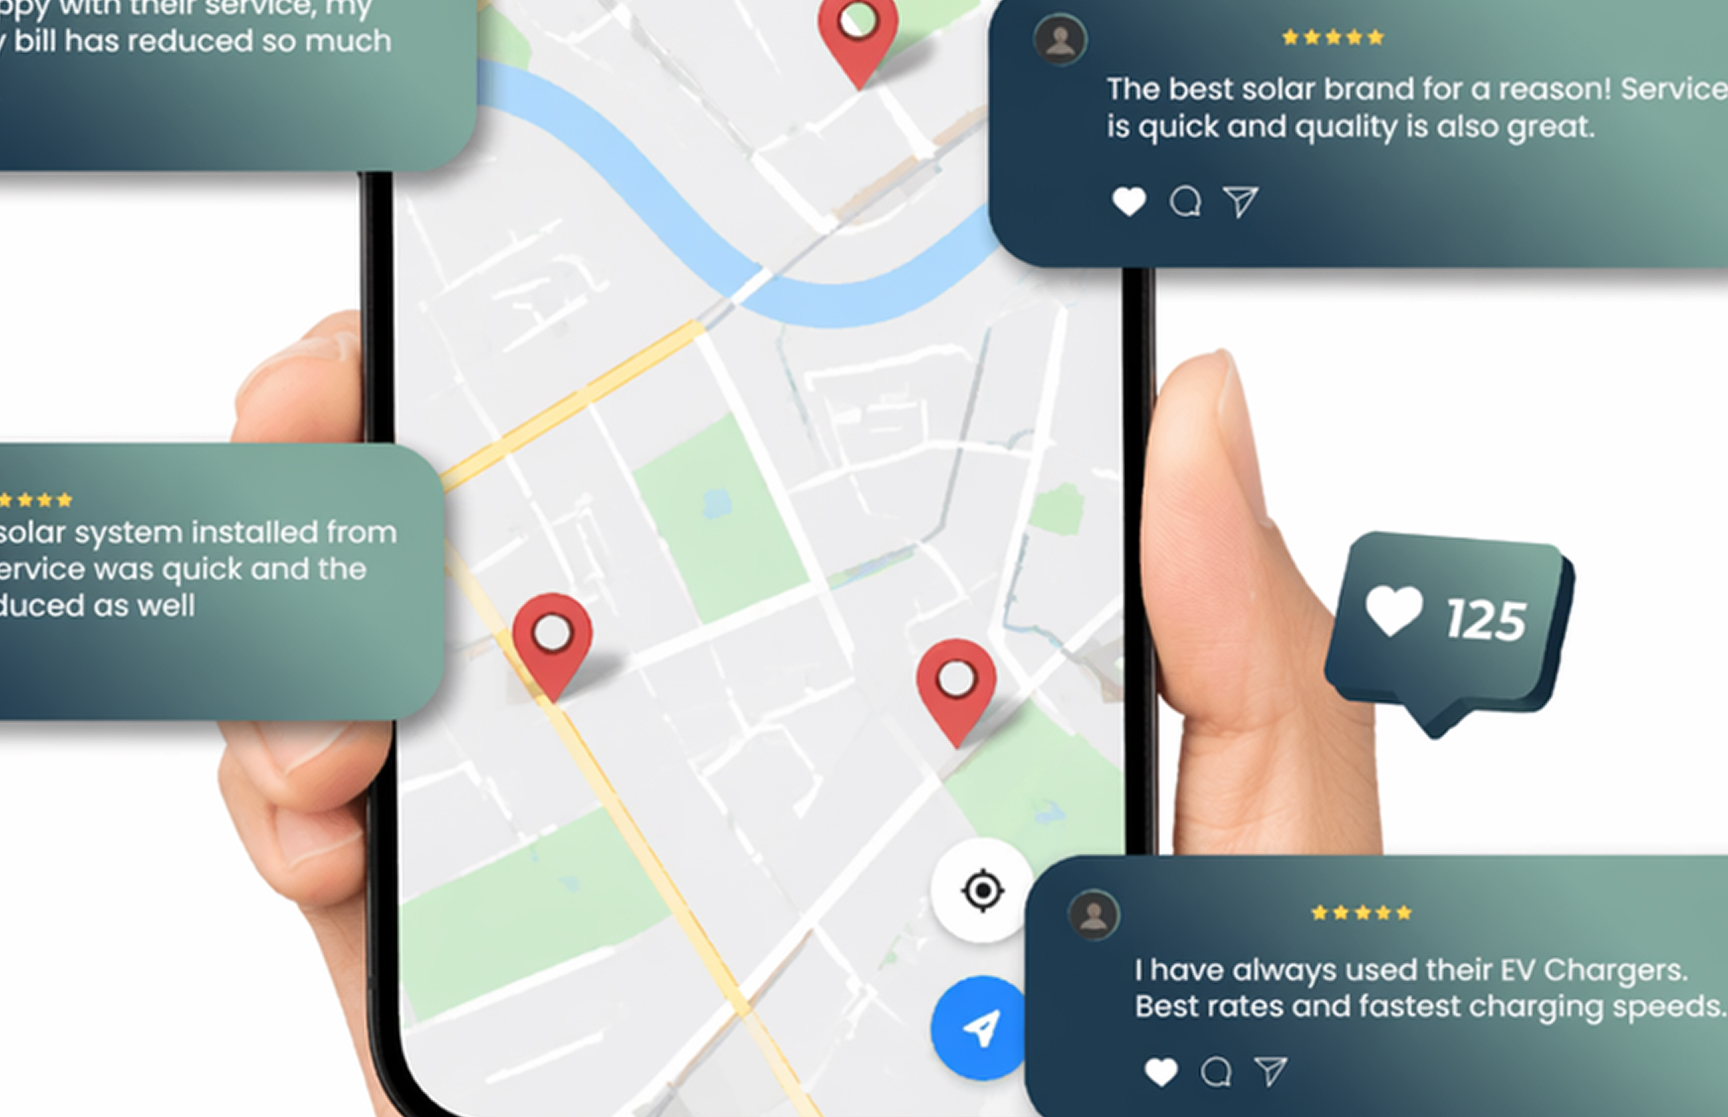
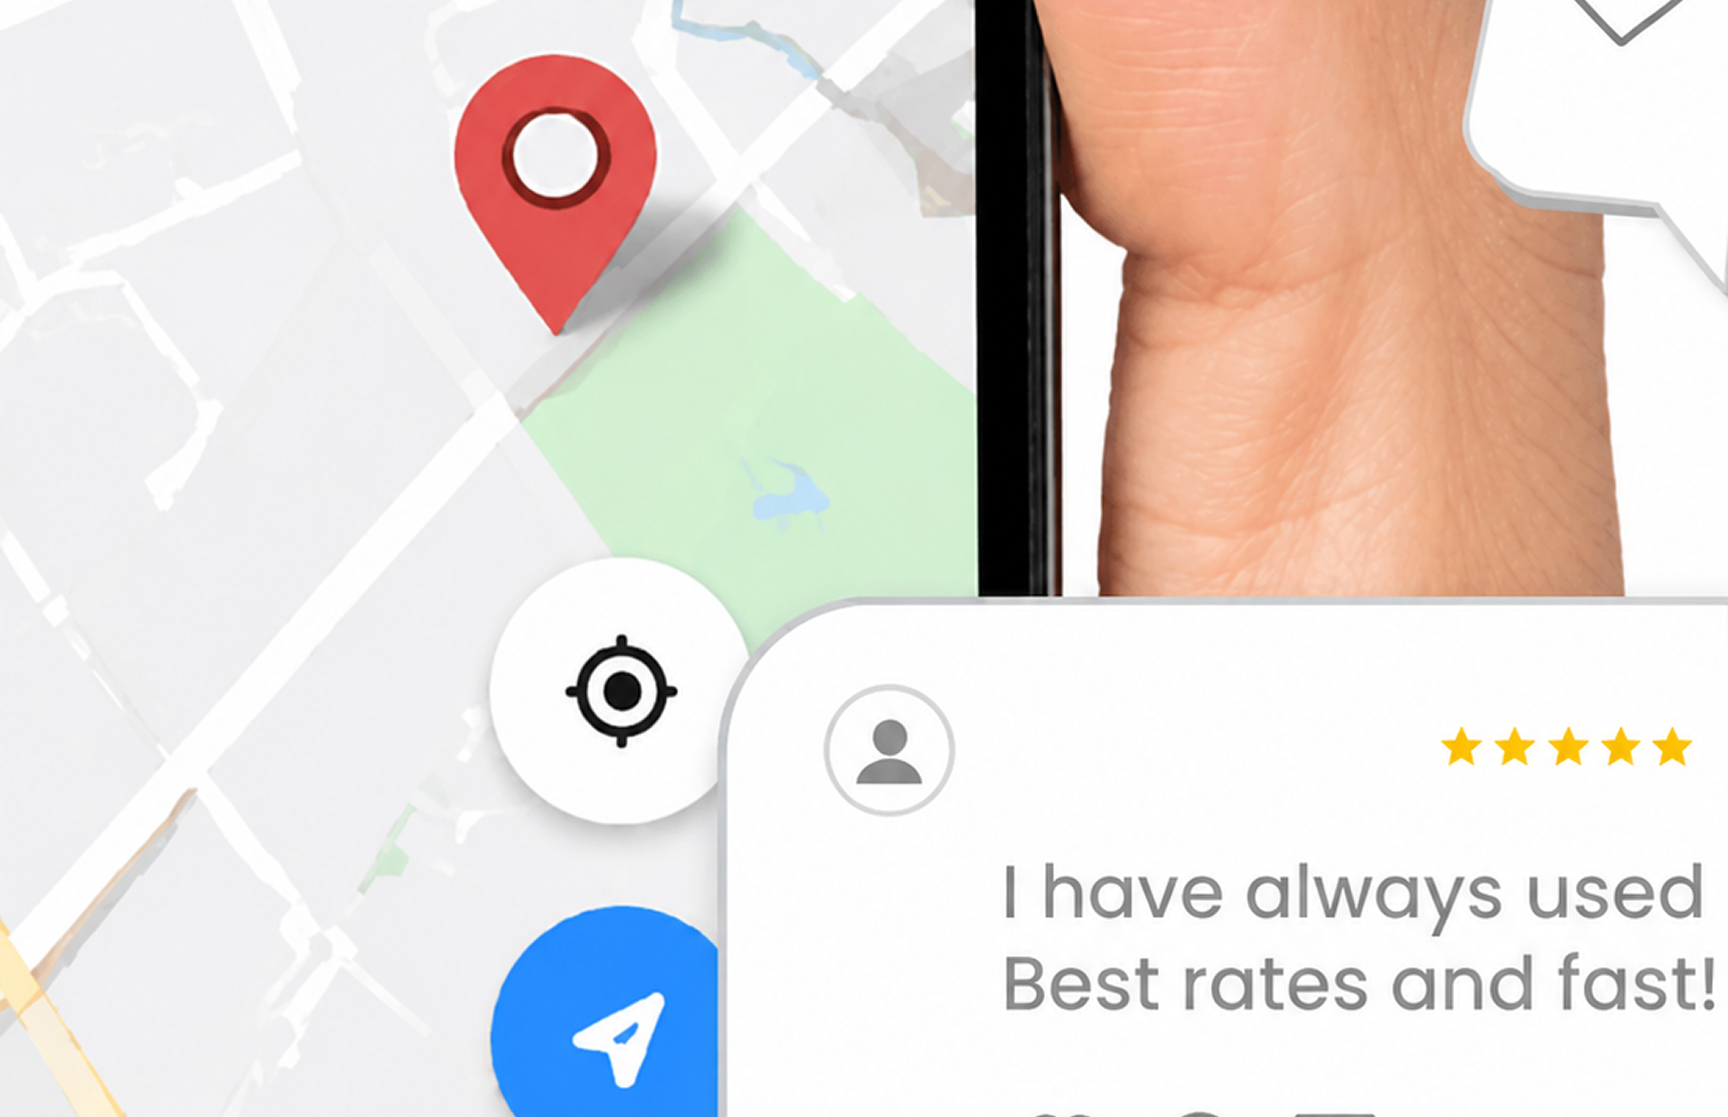
finis détails
finis les détails du mobile

diff --git a/assets/style.css b/assets/style.css
@@ -77,6 +77,7 @@ body{
     display: flex;
     justify-content: center;
     position: relative;
+    margin-top: 60px;
 }
 
 .footer__link{
@@ -86,6 +87,7 @@ body{
     cursor: pointer;
     text-decoration: none;
     color: #3C4043;
+    font-size: 20px;
 }
 
 .footer__link2{
@@ -95,6 +97,7 @@ body{
     cursor: pointer;
     text-decoration: none;
     color: #3C4043;
+    font-size: 20px;
 }
 
 .casestudy{
@@ -112,7 +115,16 @@ body{
 }
 
 .illustration{
-    margin-left: 25px;
+    display: flex;
+    justify-content: center;
+}
+
+.illustration__txt{
+    text-align: center;
+    font-weight: bold;
+    text-decoration: underline;
+    font-size: 20px;
+    margin-bottom: 10px;
 }
 
 
@@ -197,17 +209,14 @@ body{
     position: absolute;
     color: #3C4043;
     font-size: 24px;
-    top: -25px;
     right: 25px;
-    background-color: #BDF7DA;
-    padding: 5px;
-    border-radius: 10px;
+    text-decoration: none;
     
 }
 
 .header__linkMenu{
     color: aliceblue;
-    font-size: 20px;
+    font-size: 24px;
     text-decoration: none;
 }
 
@@ -218,12 +227,13 @@ body{
     margin-left: 25px;
     font-size: 30px;
     line-height: 100%;
-    margin-top: 80px;
-    margin-bottom: 40px;
+    margin-top: 60px;
+    margin-bottom: 30px;
 }
 
 .sousSousTitle{
     margin-left: 25px;
+    padding-top: 20px;
 }
 
 .txt{
@@ -272,6 +282,9 @@ body{
     color: #BA8268;
 }
 
+.illustration__img{
+    border-radius: 5px;
+}
 
 /* COMMENTAIRE */
 

diff --git a/concept.html b/concept.html
@@ -28,9 +28,11 @@
         <div class="header">
             <div class="header__link">
                 <a href="index.html" class="header__linkMenu">Datting Maps</a>
-                <p class="header__linkContact">Contact</p>
+                <a href="contact.html" class="header__linkContact">Contact</a>
             </div>
-            <img class="header__img" src="assets/images/image_concept_mobile.jpg" alt="l'image de l'ecran d'accueil transformer en header">
+         
+            <img class="header__img" src="assets/images/image_concept_pc.jpg" alt="l'image de l'ecran d'accueil transformer en header">
+           
             <h1 class="header__title">Un conc <span class="black">ept</span></h1>
             <div class="header__color">
                 <div class="header__h2">
@@ -86,7 +88,7 @@
             <img class="s31img" src="assets/images/image_personalisation_concept.jpg" alt="image du design de l'extension en rapport au texte qui l'accompagne">
         </section>
         <section>
-            <h2 class="sousTitle">première escale en vue</h2>
+            <h2 class="sousTitle">Première escale en vue</h2>
 
             <p class="GTxt">Et maintenant ?</p>
             
@@ -97,16 +99,17 @@
             <div class="divContenu">
                 <p class="divContenu__txt">En route vers la deuxième étape de notre voyage !</p>
             </div>
+
+            <h2 class="sousTitle">Rubrique suivante</h2>
+            <p class="illustration__txt">L'utilisation</p>
+            <div class="illustration">
+                <a href="utilisation.html">
+                    <img class="illustration__img" src="assets/images/image_footer_concept.jpg" alt="image de l'header de l'article suivant pour signaler de passer au suivant">
+                </a>
+            </div>
         </section>
     </main>
     <footer>
-        <p class="suivant__txt">Rubrique suivante</p>
-        <div class="illustration">
-            <a href="utilisation.html">
-                <img class="illustration__img" src="assets/images/image_footer_concept.jpg" alt="image de l'header de l'article suivant pour signaler de passer au suivant">
-            </a>
-            <p class="illustration__txt">L'utilisation</p>
-        </div>
         <div class="footer">
             <a href="credit.html" class="footer__link credits">Crédits</a>
             <a href="case.html" class="footer__link2">Case study</a>

diff --git a/opinion.html b/opinion.html
@@ -29,7 +29,7 @@
                 <a href="index.html" class="header__linkMenu">Datting Maps</a>
                 <p class="header__linkContact">contact</p>
             </div>
-            <img class="header__img" src="assets/images/image_opinion_mobile.jpg" alt="l'image de l'ecran d'accueil transformer en header">
+            <img class="header__img" src="assets/images/image_opinion_pc.jpg" alt="l'image de l'ecran d'accueil transformer en header">
             <h1 class="header__title">Les opin<span class="black black2">ions</span></h1>
             <div class="header__color">
                 <div class="header__h2">
@@ -159,16 +159,17 @@
             <div class="divContenu">
                 <p class="divContenu__txt">J’espère que nous nous reverrons bientôt pour un prochain voyage.</p>
             </div>
+
+            <h2 class="sousTitle">Rubrique suivante</h2>
+            <p class="illustration__txt">Les opinions</p>
+            <div class="illustration">
+                <a href="concept.html">
+                    <img class="illustration__img" src="assets/images/image_footer_opinion.jpg" alt="image de l'header de l'article suivant pour signaler de passer au suivant">
+                </a>
+            </div>
         </section>
     </main>
-    <footer>
-            <p class="suivant__txt">Première rubrique</p>
-        <div class="illustration">
-            <a href="concept.html">
-                <img class="illustration__img" src="assets/images/image_footer_opinion.jpg" alt="image de l'header de l'article suivant pour signaler de passer au suivant">
-            </a>
-            <p class="illustration__txt">Un concept</p>
-            
+    <footer> 
         </div>
         <div class="footer">
             <a href="credit.html" class="footer__link credits">Crédits</a>

diff --git a/problème.html b/problème.html
@@ -29,7 +29,7 @@
                 <a href="index.html" class="header__linkMenu">Datting Maps</a>
                 <p class="header__linkContact">Contact</p>
             </div>
-            <img class="header__img" src="assets/images/image_probleme_mobile.jpg" alt="l'image de l'ecran d'accueil transformer en header">
+            <img class="header__img" src="assets/images/image_probleme_pc.jpg" alt="l'image de l'ecran d'accueil transformer en header">
             <h1 class="header__title">Problèm <span class="black">es</span></h1>
             <div class="header__color">
                 <div class="header__h2">
@@ -82,16 +82,17 @@
             <div class="divContenu">
                 <p class="divContenu__txt">En route pour la fin du voyage</p>
             </div>
+
+            <h2 class="sousTitle">Rubrique suivante</h2>
+            <p class="illustration__txt">Les opinions</p>
+            <div class="illustration">
+                <a href="opinion.html">
+                    <img class="illustration__img" src="assets/images/image_footer_probleme.jpg" alt="image de l'header de l'article suivant pour signaler de passer au suivant">
+                </a>
+            </div>
         </section>
     </main>
     <footer>
-        <p class="suivant__txt">Rubrique suivante</p>
-        <div class="illustration">
-            <a href="opinion.html">
-                <img class="illustration__img" src="assets/images/image_footer_probleme.jpg" alt="image de l'header de l'article suivant pour signaler de passer au suivant">
-            </a>
-            <p class="illustration__txt">Les opinions</p>
-        </div>
         <div class="footer">
             <a href="credit.html" class="footer__link credits">Crédits</a>
             <a href="case.html" class="footer__link2">Case study</a>

diff --git a/utilisation.html b/utilisation.html
@@ -90,17 +90,18 @@
             <div class="divContenu">
                 <p class="divContenu__txt"> Pas simple de garder un haut classement d’étoiles, ce qui mène à notre troisième étape, parlera des dérives que peut apporter Datting Maps, des comptes avec peu d’étoiles.</p>
             </div>
+
+            <h2 class="sousTitle">Rubrique suivante</h2>
+            <p class="illustration__txt">Les opinions</p>
+            <div class="illustration">
+                <a href="problème.html">
+                    <img class="illustration__img" src="assets/images/image_footer_utilisation.jpg" alt="image de l'header de l'article suivant pour signaler de passer au suivant">
+                </a>
+            </div>
         </section>
         
     </main>
     <footer>
-        <p class="suivant__txt">Rubrique suivante</p>  
-        <div class="illustration">
-            <a href="problème.html">
-                <img class="illustration__img" src="assets/images/image_footer_utilisation.jpg" alt="image de l'header de l'article suivant pour signaler de passer au suivant">
-            </a>
-            <p class="illustration__txt">Problèmes</p>
-        </div>
         <div class="footer">
             <a href="credit.html" class="footer__link credits">Crédits</a>
             <a href="case.html" class="footer__link2">Case study</a>